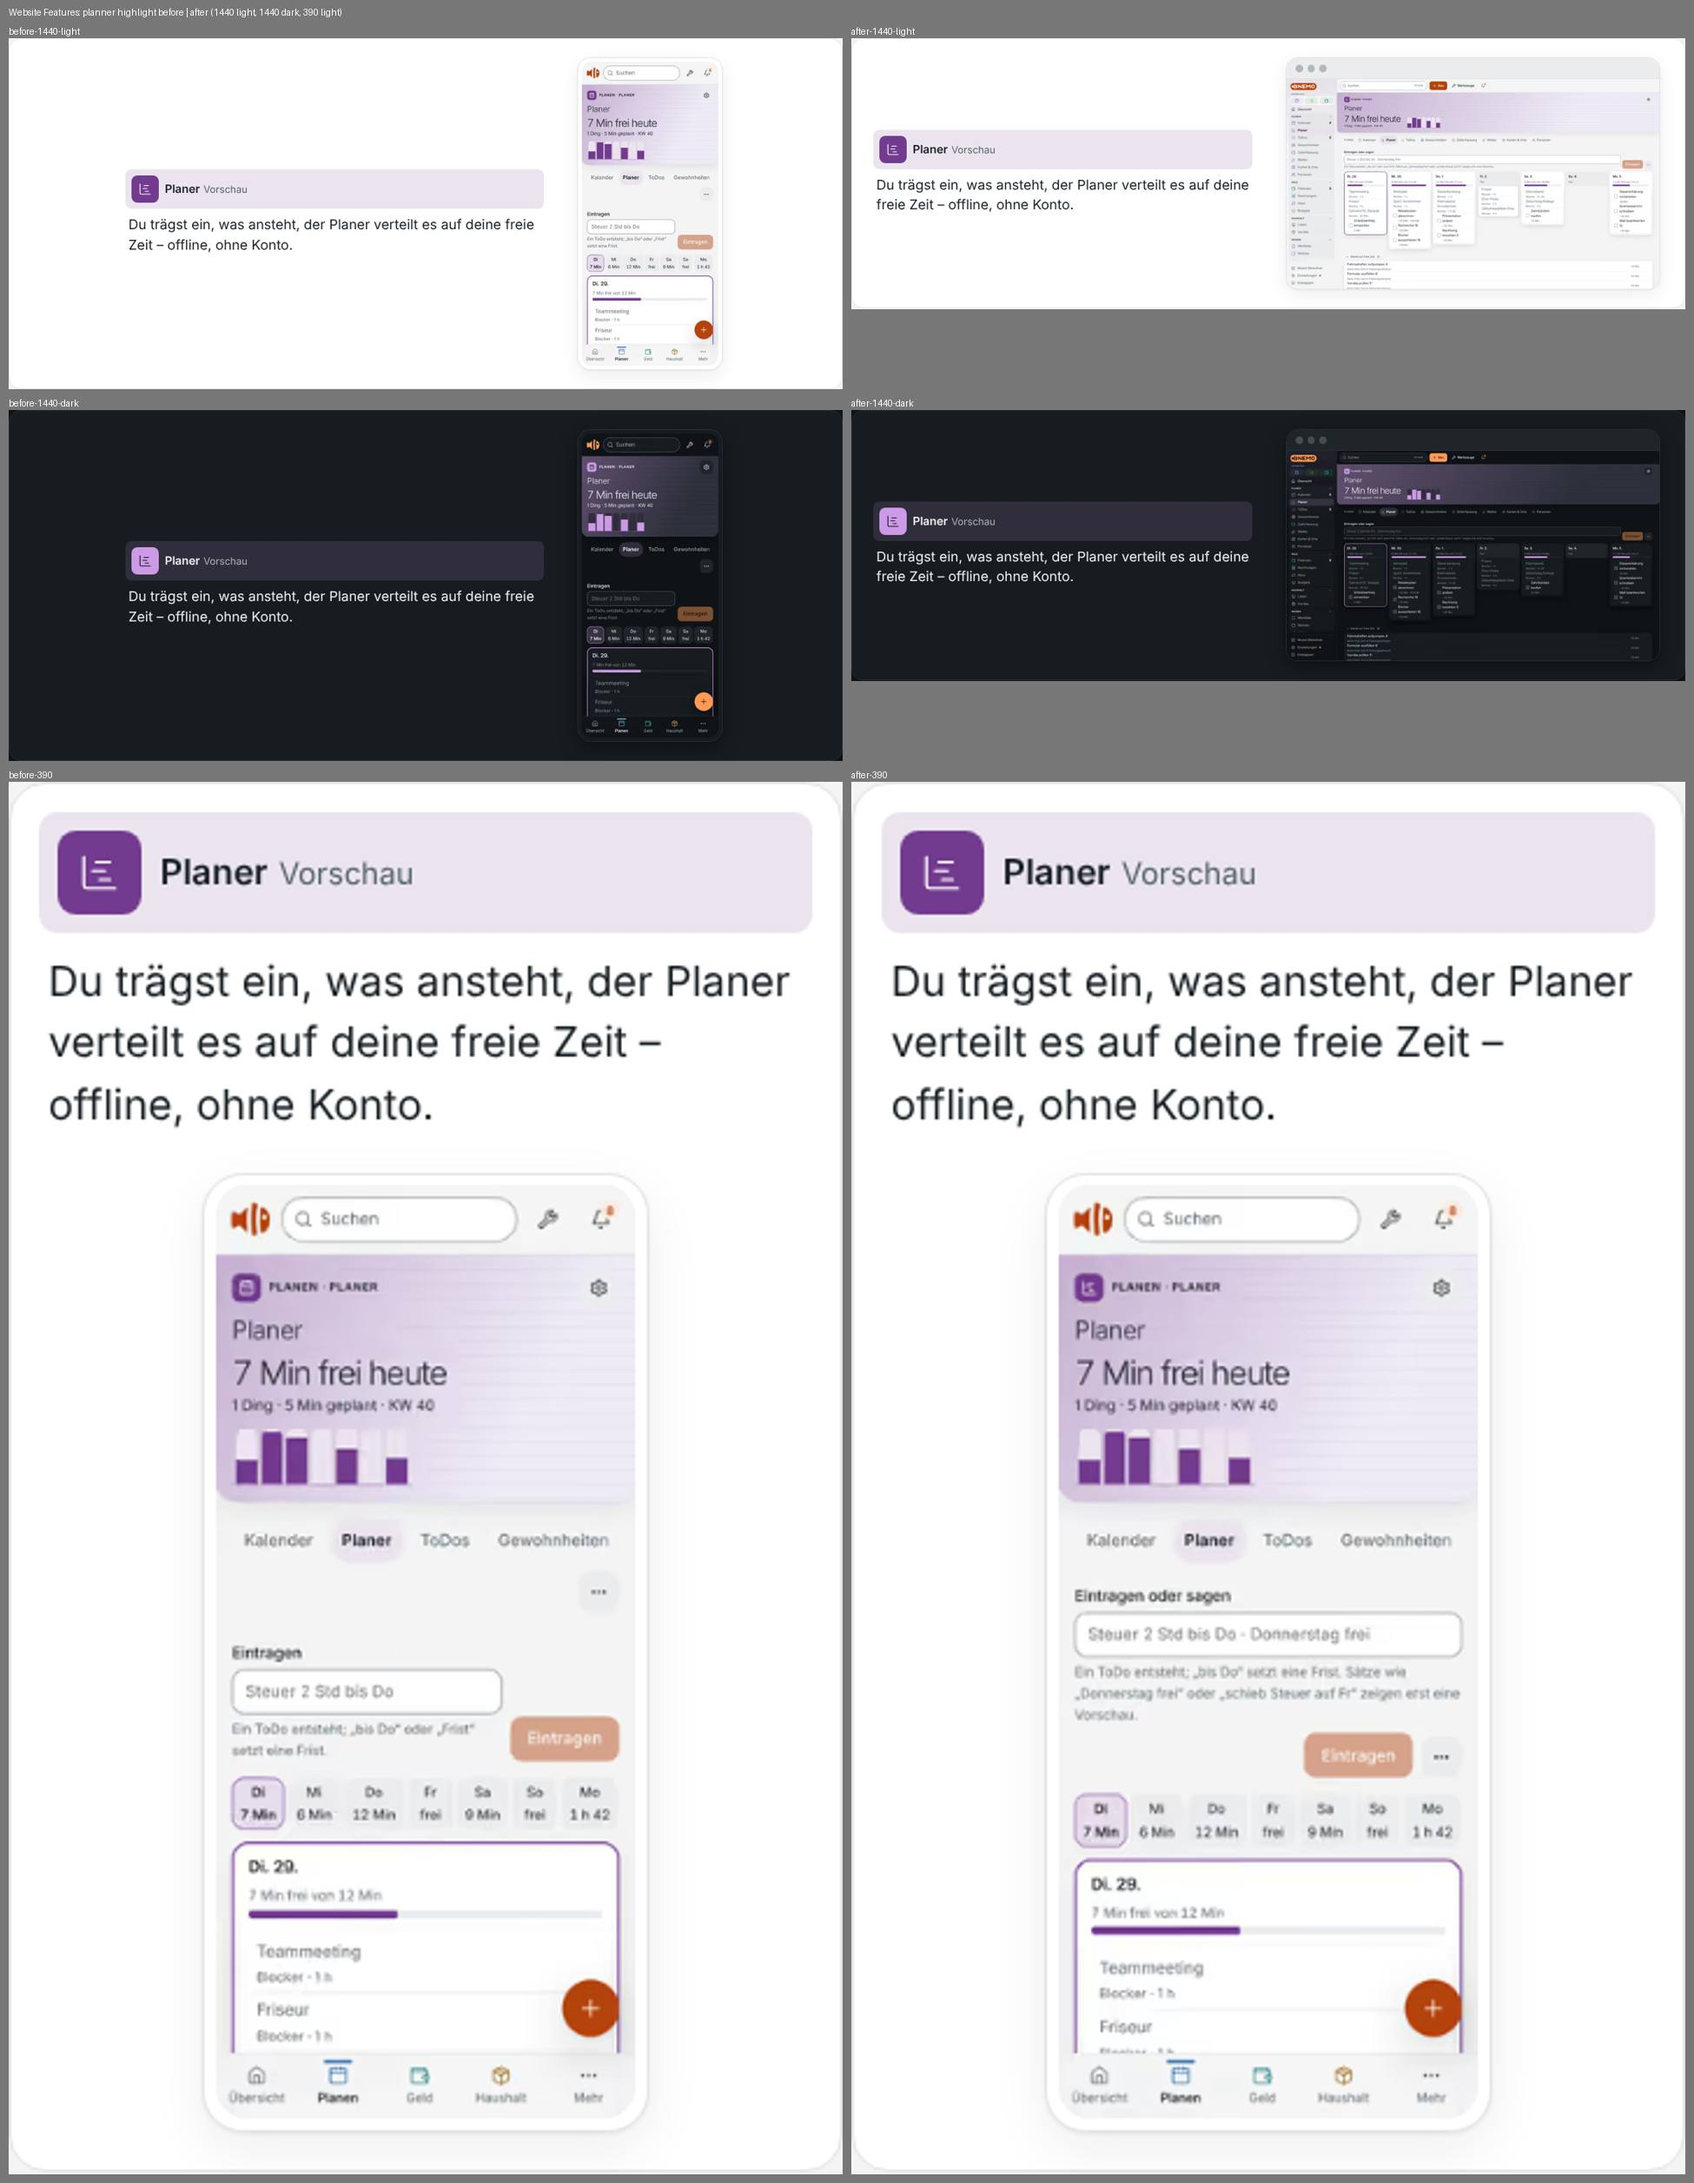
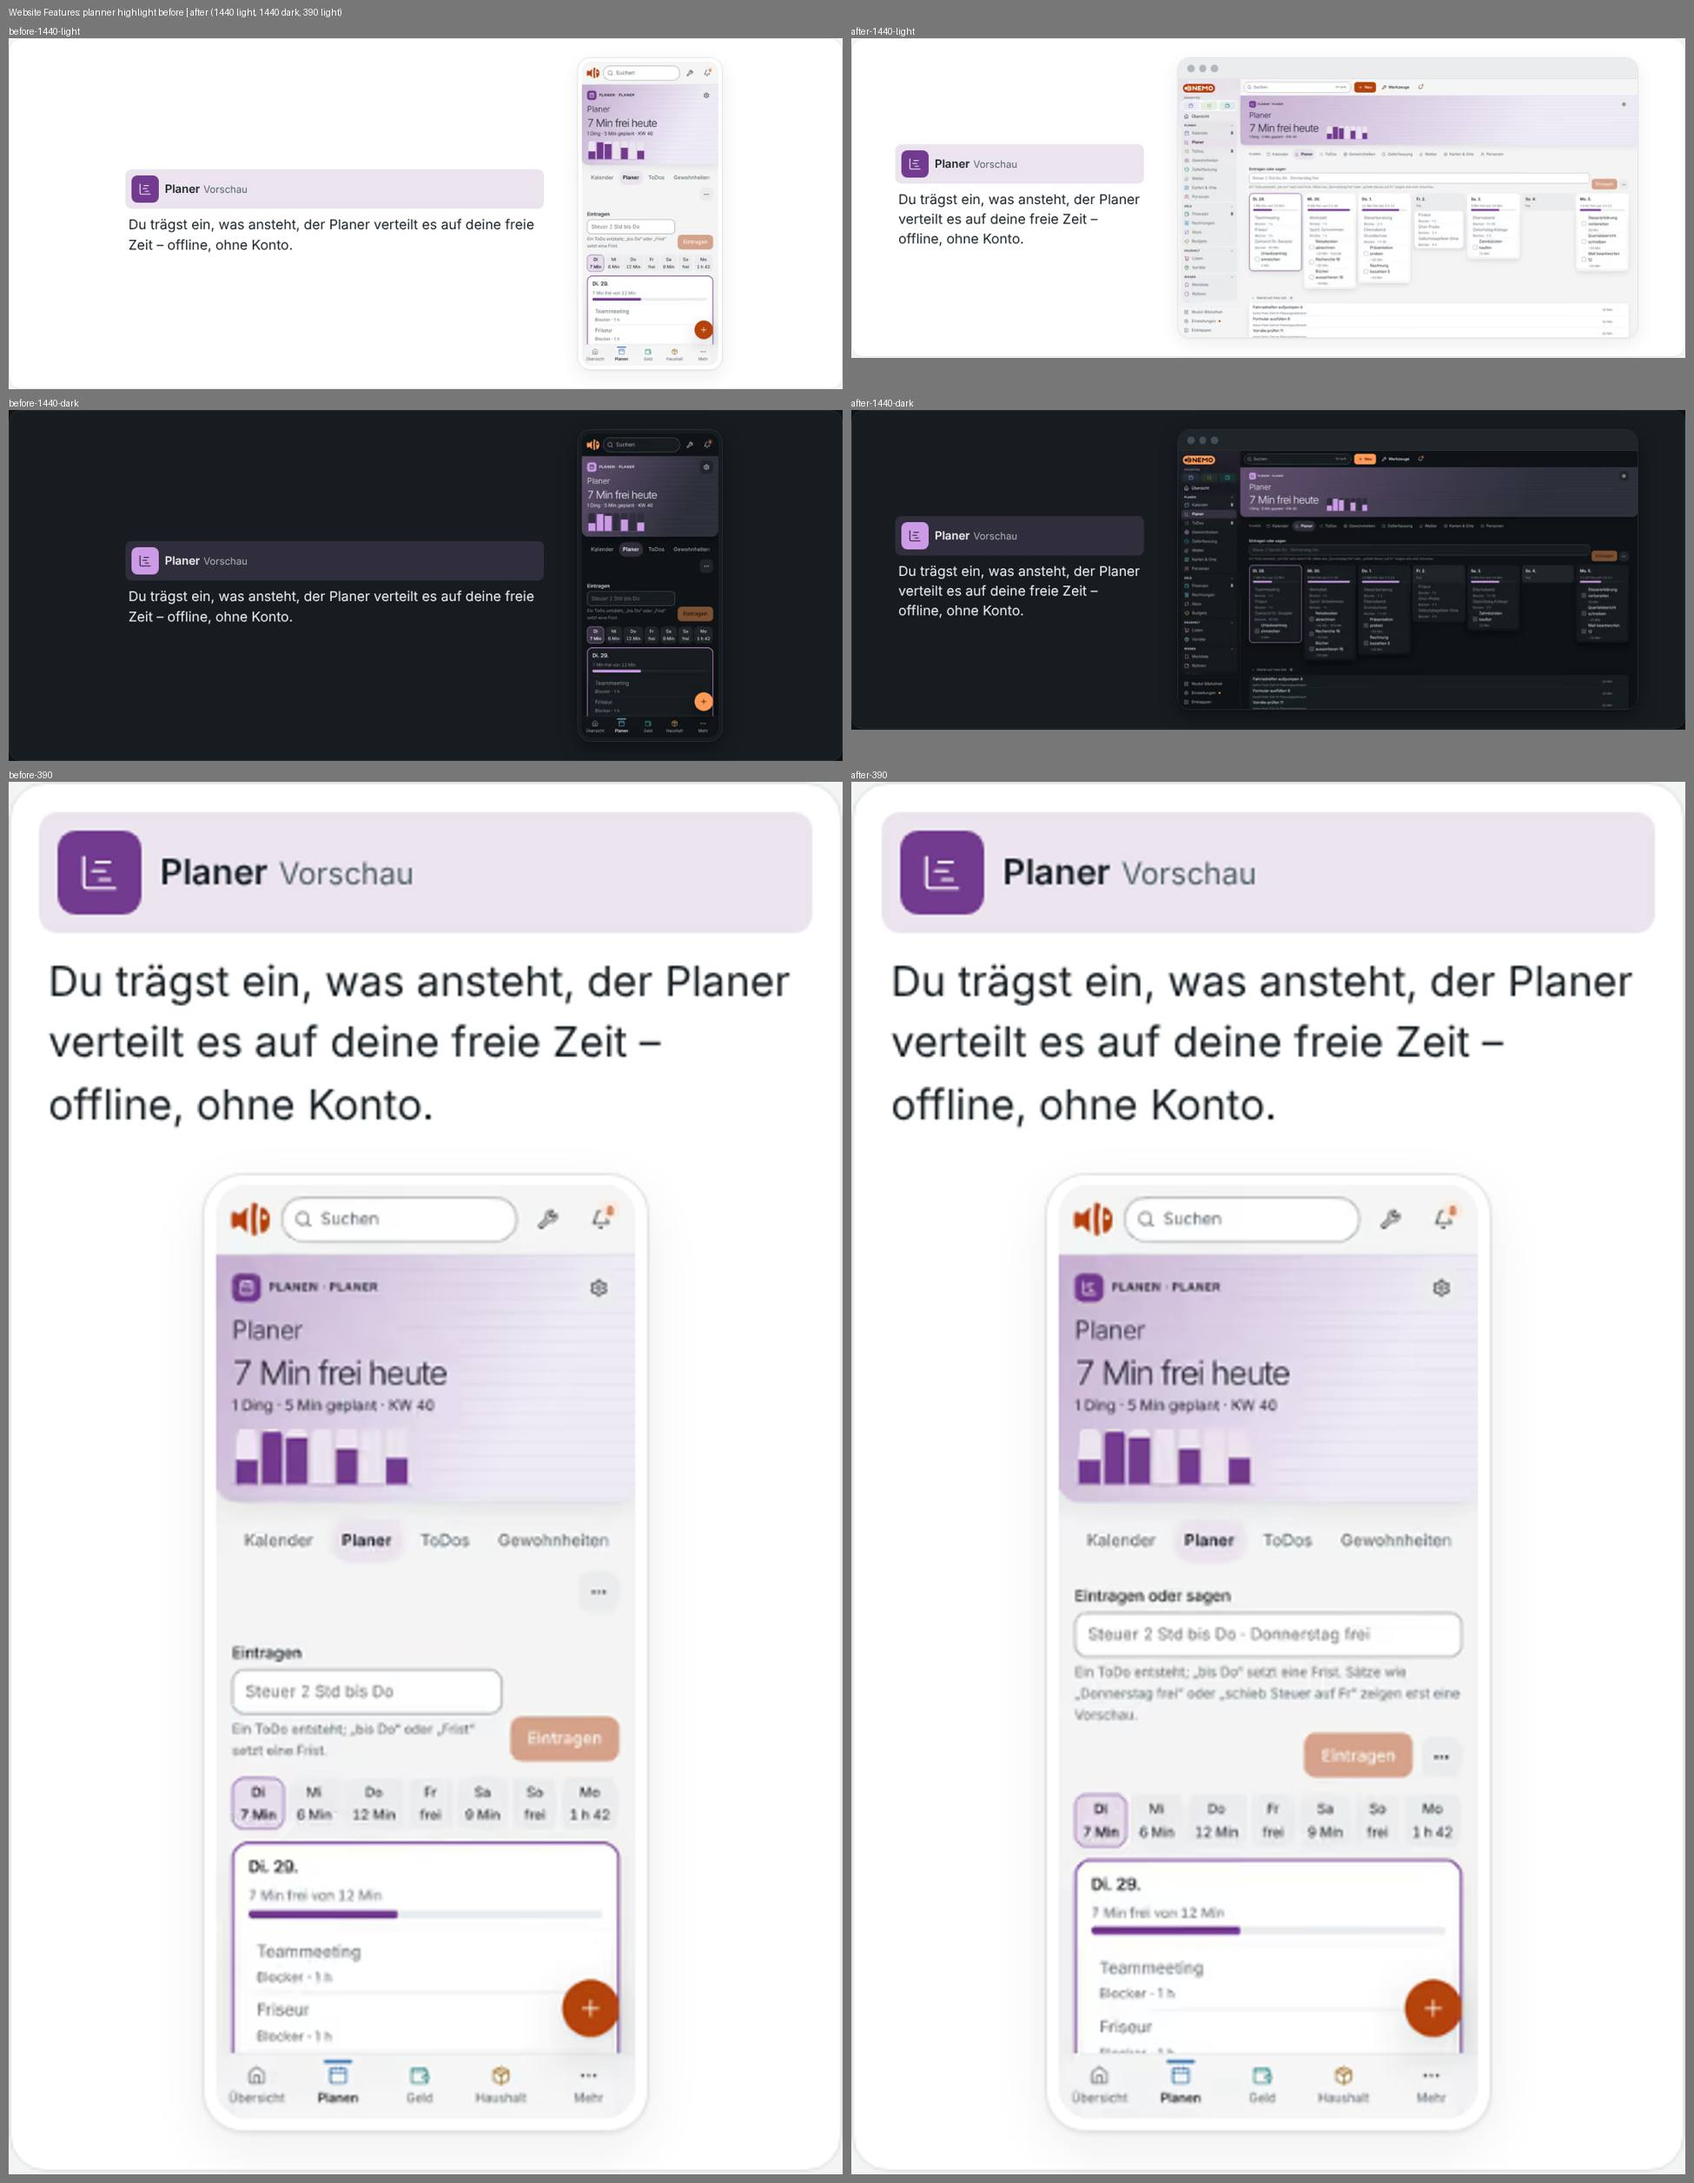
fix: review round 1 – site spot columns from 64rem, touch box size, inView unchanged
- Features: the 64rem block sits after the 48rem one, so the desktop
  shot gets its 38rem column (S1).
- Board: the smaller tick box only with a pointer (S3).
- inView keeps its old signature (S5); the planner test block resets the
  module state in beforeEach (S6); decision notes the Bald/Alle grouping (S2).

Claude-Session: https://claude.ai/code/session_019RrxT5GTJ9VErSudCUkX5P

Changed region(s): [[0.4923, 0.031, 1.0, 0.3414]]

diff --git a/web/src/modules/todos/__tests__/todosPage.test.tsx b/web/src/modules/todos/__tests__/todosPage.test.tsx
@@ -201,6 +201,9 @@ describe('Heute card', () => {
 });
 
 describe('with the planner module on', () => {
+  beforeEach(async () => {
+    await db.table('_modules').delete('planner');
+  });
   const plannerOn = () =>
     db.table('_modules').put({
       id: 'planner',
@@ -235,8 +238,6 @@ describe('with the planner module on', () => {
       planMark: { date: '2026-11-05', order: 0 },
     });
     await patchFocusSettings({ calmAttention: false });
-    // Starts with the planner off (an earlier test of this block left it on).
-    await db.table('_modules').delete('planner');
     const first = draw('/todos');
     await waitFor(() => expect(screen.getByTestId('all-today')).toBeInTheDocument());
     first.unmount();

diff --git a/web/src/modules/todos/views.ts b/web/src/modules/todos/views.ts
@@ -52,8 +52,7 @@ export function viewOf(task: V, day: string, planner = false): TodoView {
 export const isLaterInPlan = (task: Marked, day: string): boolean =>
   isPlannerOwned(task) && task.plannedFor! > day;
 
-export const inView = (task: V, view: TodoView, day: string, planner = false): boolean =>
-  viewOf(task, day, planner) === view;
+export const inView = (task: V, view: TodoView, day: string): boolean => viewOf(task, day) === view;
 
 export type MovePatch = Partial<
   Pick<

diff --git a/web/src/modules/planner/routes/planner.module.css b/web/src/modules/planner/routes/planner.module.css
@@ -102,11 +102,12 @@
 .boardRow [data-row] {
   min-width: 0;
 }
-.boardRow .check {
-  width: 1.125rem;
-  height: 1.125rem;
-}
 @media (hover: hover) {
+  /* A smaller box only with a pointer; a touch screen keeps the 24 px box. */
+  .boardRow .check {
+    width: 1.125rem;
+    height: 1.125rem;
+  }
   .boardRow [data-row-actions] {
     position: absolute;
     inset-block-start: 0;

diff --git a/docs/decisions/plan.md b/docs/decisions/plan.md
@@ -13,4 +13,4 @@ Index: [DECISIONS](../DECISIONS.md). Concept and prototype: [design/plan/CONCEPT
 - **Package 1 = the minimum to plan a week (2026-11-05, answer 4):** engine, contract, module with week board, ToDos source (plus the optional ToDo field `planMark`, the core `ignoreFields`, the `module.disabling` event and the `syncSettled()` helper), available time and blockers per day, write-back, widget, undo; starts after `feat/identity-v3-frame` is merged (hotspot `core/modules/types.ts`); packages 2–5 follow in sequence. Identity: `indigo`/`cobalt`, head `kennzahl`, widget `fortschritt` (week load), signature `weekBars`, `order: 15`, `maturity: 'preview'` until package 3; the 26° distance to cobalt and violet is re-checked after the frame merge.
 - **Package 1 as built (2026-11-05):** rolling week from today on board, strip and widget; available minutes = three settings (weekday/Sa/So), per-date values in `day` rows; a background run skips while hash, row signature and the `item.earliest` copies are in step (source dates are not hashed); „Später“ on the board = `onAssign(id, tomorrow)` without order; excluded things end the waiting group; `PlannableItem.createdAt` is the age tie-break; `PlannableSource.onRelease` hands a date back on switch-off (also a past `prior` – the same rule as the ToDo side's clean-up), while `onAssign(id, undefined)` in a run keeps a past date off today's card; the data API drops `internal` fields instead of rejecting; `schema-history.json` lists released versions only. Council: `RunDeps.aborted` (a run that outlives the switch-off writes nothing more); planner undo entries carry a scope and are forgotten on `module.disabling`; the ToDo clean-up runs from a live query (stored planner state, gate, marks), so a late mark is cleaned without a restart; `syncSettled()` awaits the running round; a stale page's action ends in one toast (`PlannerOffError`); the seed's `afterSeed` runs the planner once and registers the rows it made for the todos seed's tasks (`ctx.seeded`; a person's own rows and marks stay theirs), the loader purges the outbox of registered rows, `beforeRemove`/`afterRemove` suspend and resume the runs around the removal; the board shows four days a row and seven from 73rem of page width (layout `full`), the minutes lead the meta line, so no row runs past a column; the gate waits for a running sync round only for background runs.
 - **One field for entering and saying; one chip per day (2026-11-05, package 2):** the planner page keeps one field: German sentences („Donnerstag frei“, „schieb Steuer auf Fr“, „alles von Do nach Fr“) are read first by stage 0 (`core/plan/instructions.ts`, quick-capture date/end-time extractors, `pickTarget`/`withinOneEdit`), everything else stays a ToDo; a sentence never writes directly – it ends in `PlanPreview` (moved with cause, new, waits) and „Übernehmen“ is one `undoable`. Two equal matches ask, a planning verb with an unreadable rest explains, a thing is named without a verb only word for word („Müll raus“ stays a ToDo). Other languages keep „Eintragen“ and the ⋯ actions. The calendar gets one all-day chip per planned day (never one per session), switchable; the „Heute“ card, the agenda block and the head line skip it. Quick capture `p`/„plan:“ saves in two stages (ToDo through the `todo` target, then `planner_item` `todos:<id>` through the manifest repo; undo removes both). The lists' „Wochenplanung“ routine becomes a link to „Woche prüfen“ while the planner is on (focus checklist 9).
-- **Heute follows the plan, nothing disappears (2026-11-06, sweep N02):** while the planner is on, a later day it gave a ToDo (`planMark.date === plannedFor`) wins over an older due date – the ToDo page (list, board, head count, „Als Nächstes“) and the „Heute“ card's „Jetzt dran“ treat it as „Demnächst“ until that day (`viewOf(…, planner)`, `isLaterInPlan`); a user's own date and an overdue thing the planner has not placed keep the plain rule, so the counts can differ by the unplaced ones. „Alle auf heute“ steps back like „Neu planen“. Board: seven columns only from 95rem of page width (a column keeps ~210 px; titles never break inside a word).
+- **Heute follows the plan, nothing disappears (2026-11-06, sweep N02):** while the planner is on, a later day it gave a ToDo (`planMark.date === plannedFor`) wins over an older due date – the ToDo page (list, board, head count, „Als Nächstes“) and the „Heute“ card's „Jetzt dran“ treat it as „Demnächst“ until that day (`viewOf(…, planner)`, `isLaterInPlan`); a user's own date and an overdue thing the planner has not placed keep the plain rule, so the counts can differ by the unplaced ones; in „Alle“ and „Demnächst“ such a thing stays grouped by its due date („Wartet noch“, with „im Plan: Tag“ in Demnächst). „Alle auf heute“ steps back like „Neu planen“. Board: seven columns only from 95rem of page width (a column keeps ~210 px; titles never break inside a word).
